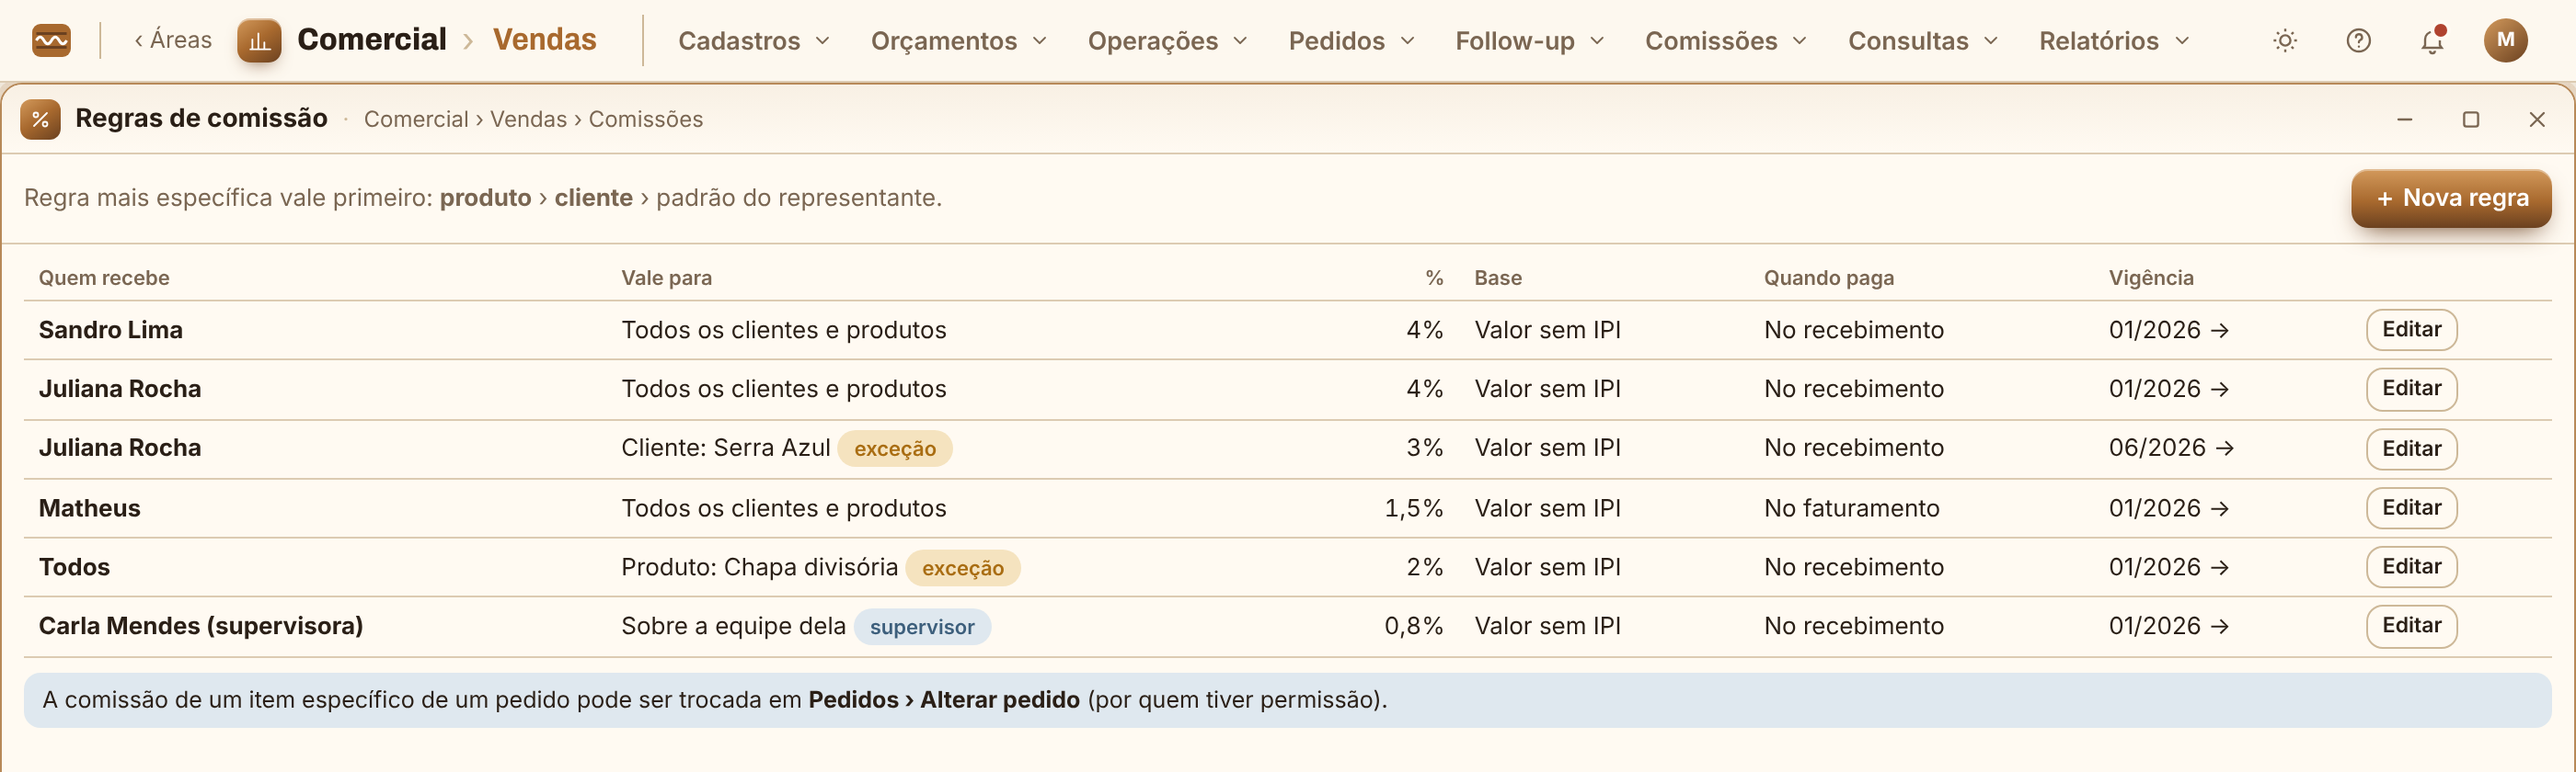
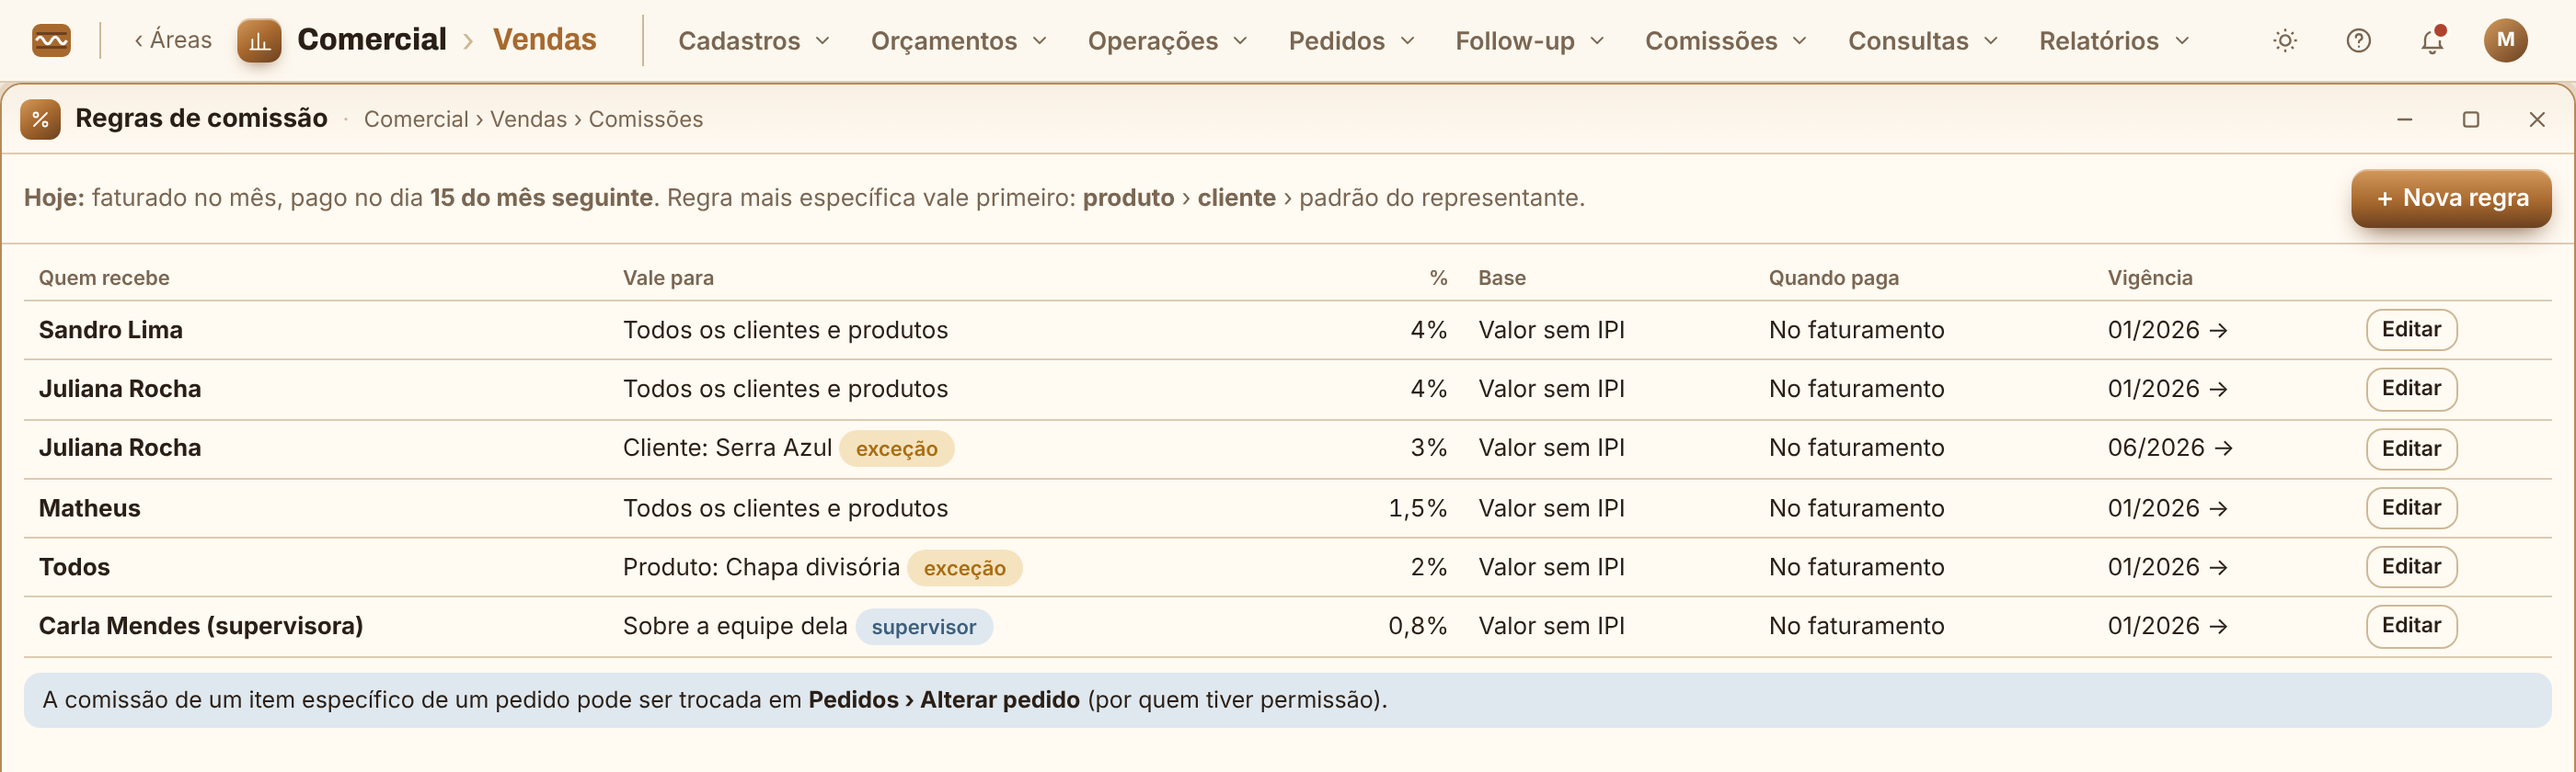
Comissões no protótipo: pagamento no faturamento, dia 15 do mês seguinte
Claude-Session: https://claude.ai/code/session_015kL8p4eCaL1huCADCSMStj

diff --git a/prototipo/tela-inicial-e-comercial.html b/prototipo/tela-inicial-e-comercial.html
@@ -3551,12 +3551,12 @@ const REPS = [
   { id:'jul', nome:'Juliana Rocha', tipo:'Representante', sup:'Carla Mendes' },
 ];
 const REGRAS = [
-  { quem:'Sandro Lima', aplica:'Todos os clientes e produtos', pct:4, base:'Valor sem IPI', quando:'No recebimento', vig:'01/2026 →' },
-  { quem:'Juliana Rocha', aplica:'Todos os clientes e produtos', pct:4, base:'Valor sem IPI', quando:'No recebimento', vig:'01/2026 →' },
-  { quem:'Juliana Rocha', aplica:'Cliente: Serra Azul', pct:3, base:'Valor sem IPI', quando:'No recebimento', vig:'06/2026 →', exc:true },
+  { quem:'Sandro Lima', aplica:'Todos os clientes e produtos', pct:4, base:'Valor sem IPI', quando:'No faturamento', vig:'01/2026 →' },
+  { quem:'Juliana Rocha', aplica:'Todos os clientes e produtos', pct:4, base:'Valor sem IPI', quando:'No faturamento', vig:'01/2026 →' },
+  { quem:'Juliana Rocha', aplica:'Cliente: Serra Azul', pct:3, base:'Valor sem IPI', quando:'No faturamento', vig:'06/2026 →', exc:true },
   { quem:'Matheus', aplica:'Todos os clientes e produtos', pct:1.5, base:'Valor sem IPI', quando:'No faturamento', vig:'01/2026 →' },
-  { quem:'Todos', aplica:'Produto: Chapa divisória', pct:2, base:'Valor sem IPI', quando:'No recebimento', vig:'01/2026 →', exc:true },
-  { quem:'Carla Mendes (supervisora)', aplica:'Sobre a equipe dela', pct:0.8, base:'Valor sem IPI', quando:'No recebimento', vig:'01/2026 →', sup:true },
+  { quem:'Todos', aplica:'Produto: Chapa divisória', pct:2, base:'Valor sem IPI', quando:'No faturamento', vig:'01/2026 →', exc:true },
+  { quem:'Carla Mendes (supervisora)', aplica:'Sobre a equipe dela', pct:0.8, base:'Valor sem IPI', quando:'No faturamento', vig:'01/2026 →', sup:true },
 ];
 const ACERTO = {
   '2026-11': [
@@ -3577,12 +3577,12 @@ const MESES_COM = ['07/26','08/26','09/26','10/26','11/26'];
 
 TELAS.comRegras = (box) => {
   box.classList.add('cl-box');
-  const desenha = () => { box.innerHTML = `<div class="cl-topo"><span class="cl-txt">Regra mais específica vale primeiro: <b>produto</b> › <b>cliente</b> › padrão do representante.</span><button class="go cl-novo" type="button" data-nova-regra>＋ Nova regra</button></div>
+  const desenha = () => { box.innerHTML = `<div class="cl-topo"><span class="cl-txt"><b>Hoje:</b> faturado no mês, pago no dia <b>15 do mês seguinte</b>. Regra mais específica vale primeiro: <b>produto</b> › <b>cliente</b> › padrão do representante.</span><button class="go cl-novo" type="button" data-nova-regra>＋ Nova regra</button></div>
     <div class="pd-linhas"><table class="pd-tab"><thead><tr><th>Quem recebe</th><th>Vale para</th><th class="num">%</th><th>Base</th><th>Quando paga</th><th>Vigência</th><th></th></tr></thead><tbody>${REGRAS.map((r, i) => `<tr><td><b>${esc(r.quem)}</b></td><td>${esc(r.aplica)} ${r.exc ? '<span class="pill p-warn">exceção</span>' : r.sup ? '<span class="pill p-info">supervisor</span>' : ''}</td><td class="num">${r.pct.toLocaleString('pt-BR')}%</td><td>${r.base}</td><td>${r.quando}</td><td>${r.vig}</td><td><button class="mini" type="button" data-ed-regra="${i}">Editar</button></td></tr>`).join('')}</tbody></table>
     <div class="cl-dica" style="margin-top:8px">A comissão de um item específico de um pedido pode ser trocada em <b>Pedidos › Alterar pedido</b> (por quem tiver permissão).</div></div>`; };
   box.addEventListener('click', (e) => {
     if (e.target.closest('[data-nova-regra]') || e.target.closest('[data-ed-regra]')) {
-      const r = e.target.closest('[data-ed-regra]') ? REGRAS[+e.target.closest('[data-ed-regra]').dataset.edRegra] : { quem:'', aplica:'Todos os clientes e produtos', pct:0, base:'Valor sem IPI', quando:'No recebimento', vig:'' };
+      const r = e.target.closest('[data-ed-regra]') ? REGRAS[+e.target.closest('[data-ed-regra]').dataset.edRegra] : { quem:'', aplica:'Todos os clientes e produtos', pct:0, base:'Valor sem IPI', quando:'No faturamento', vig:'' };
       box.innerHTML = `<div class="cl-ficha editando"><div class="cl-cab"><button class="voltar" type="button" data-volta-regras>‹ Regras</button><div class="cl-nome"><b>${r.quem ? 'Editar regra' : 'Nova regra'}</b><small>Quem recebe, sobre o quê, quanto e quando</small></div>
         <span class="cl-acoes"><button class="btn2" type="button" data-volta-regras>Cancelar</button><button class="go" type="button" data-salva-regra>Salvar</button></span></div>
         <div class="pd-corpo"><section class="cl-bloco"><div class="cl-grade">
@@ -3591,7 +3591,7 @@ TELAS.comRegras = (box) => {
           ${f('Qual (cliente/produto)', (r.aplica.split(': ')[1] || ''))}
           ${f('Percentual (%)', r.pct ? r.pct.toLocaleString('pt-BR') : '')}
           ${f('Base de cálculo', r.base, { opcoes:['Valor sem IPI','Valor total da nota','Margem de contribuição'] })}
-          ${f('Quando paga', r.quando, { opcoes:['No recebimento','No faturamento'], ajuda:'No recebimento: só comissiona o que o cliente pagou' })}
+          ${f('Quando paga', r.quando, { opcoes:['No faturamento','No recebimento'], ajuda:'Hoje: no faturamento. No futuro: no recebimento (só o que o cliente pagou)' })}
           ${f('Vigência desde', r.vig.replace(' →', '') || '12/2026')}${f('Até', '')}</div></section></div></div>`;
       box.querySelectorAll('input,select').forEach(el => el.disabled = false); return;
     }
@@ -3606,17 +3606,17 @@ TELAS.comAcerto = (box) => {
   const desenha = () => {
     const l = ACERTO[box._per], tot = (k) => l.reduce((a, x) => a + x[k], 0);
     box.innerHTML = `<div class="cl-topo"><label class="cf" style="flex-direction:row;display:flex;gap:6px;align-items:center"><span>Período</span><select id="caPer" style="width:auto;background:var(--surface)"><option>11/2026</option></select></label>
-      <span class="cl-txt">Base: notas faturadas (Faturamento) e títulos recebidos (Contas a receber) no período.</span>
+      <span class="cl-txt">Base: notas <b>faturadas</b> no mês. Pagamento: <b>dia 15/12/2026</b>.</span>
       <button class="btn2" type="button" data-ca-conf>Marcar todos conferidos</button><button class="go cl-novo" type="button" data-ca-fechar>Fechar período e gerar notas</button></div>
     <div class="pd-linhas"><table class="pd-tab"><thead><tr><th>Representante</th><th class="num">Faturado</th><th class="num">Recebido</th><th class="num">Comissão</th><th class="num">Ajustes</th><th class="num">A pagar</th><th>Situação</th><th></th></tr></thead><tbody>
       ${l.map((x, i) => `<tr data-ca="${i}"><td><b>${esc(x.rep)}</b></td><td class="num">${brl(x.fat)}</td><td class="num">${brl(x.rec)}</td><td class="num">${brl(x.com)}</td><td class="num">${x.aj ? brl(x.aj) : '—'}</td><td class="num"><b>${brl(x.com + x.aj)}</b></td>
         <td><span class="pill ${x.sit === 'pago' ? 'p-ok' : x.sit === 'conferido' ? 'p-info' : x.sit === 'fechado' ? 'p-ok' : 'p-warn'}">${{ aberto:'Aberto', conferido:'Conferido', fechado:'Nota gerada', pago:'Pago' }[x.sit]}</span></td>
         <td><button class="mini" type="button" data-ca-ver="${i}">${box._abre === i ? 'Fechar' : 'Detalhe'}</button></td></tr>
-        ${box._abre === i ? `<tr class="ca-det"><td colspan="8">${x.det.length ? `<table class="pd-tab"><thead><tr><th>Documento</th><th>Cliente</th><th>Data</th><th class="num">Base</th><th class="num">Comissão</th></tr></thead><tbody>${x.det.map(d => `<tr><td class="mono">${d[0]}</td><td>${d[1]}</td><td>${d[2]}</td><td class="num">${brl(d[3])}</td><td class="num">${brl(d[4])}</td></tr>`).join('')}</tbody></table>` : '<span class="cl-txt">Calculado sobre a equipe: soma dos recebimentos dos representantes.</span>'}
+        ${box._abre === i ? `<tr class="ca-det"><td colspan="8">${x.det.length ? `<table class="pd-tab"><thead><tr><th>Documento</th><th>Cliente</th><th>Data</th><th class="num">Base</th><th class="num">Comissão</th></tr></thead><tbody>${x.det.map(d => `<tr><td class="mono">${d[0]}</td><td>${d[1]}</td><td>${d[2]}</td><td class="num">${brl(d[3])}</td><td class="num">${brl(d[4])}</td></tr>`).join('')}</tbody></table>` : '<span class="cl-txt">Calculado sobre a equipe: soma do faturamento dos representantes.</span>'}
           ${x.aj ? '<div class="cl-txt">Ajuste: estorno de comissão de devolução (NF 88301).</div>' : ''}<button class="mini" type="button">+ Ajuste manual</button></td></tr>` : ''}`).join('')}
       <tr class="ca-tot"><td>Total</td><td class="num">${brl(tot('fat'))}</td><td class="num">${brl(tot('rec'))}</td><td class="num">${brl(tot('com'))}</td><td class="num">${brl(tot('aj'))}</td><td class="num"><b>${brl(tot('com') + tot('aj'))}</b></td><td colspan="2"></td></tr>
     </tbody></table>
-    <div class="cl-dica" style="margin-top:8px">Ao fechar o período: gera uma <b>nota de crédito</b> por representante e manda o valor para <b>Contas a pagar</b>. Cada representante vê o dele em <b>Portal › Minhas comissões</b>.</div></div>`;
+    <div class="cl-dica" style="margin-top:8px">Ao fechar o período: gera uma <b>nota de crédito</b> por representante e manda o valor para <b>Contas a pagar</b> com vencimento no <b>dia 15 do mês seguinte</b>. Quando a empresa passar a pagar no recebimento, basta trocar "Quando paga" nas regras. Cada representante vê o dele em <b>Portal › Minhas comissões</b>.</div></div>`;
   };
   box.addEventListener('click', (e) => {
     const v = e.target.closest('[data-ca-ver]'); if (v) { box._abre = box._abre === +v.dataset.caVer ? null : +v.dataset.caVer; return desenha(); }
